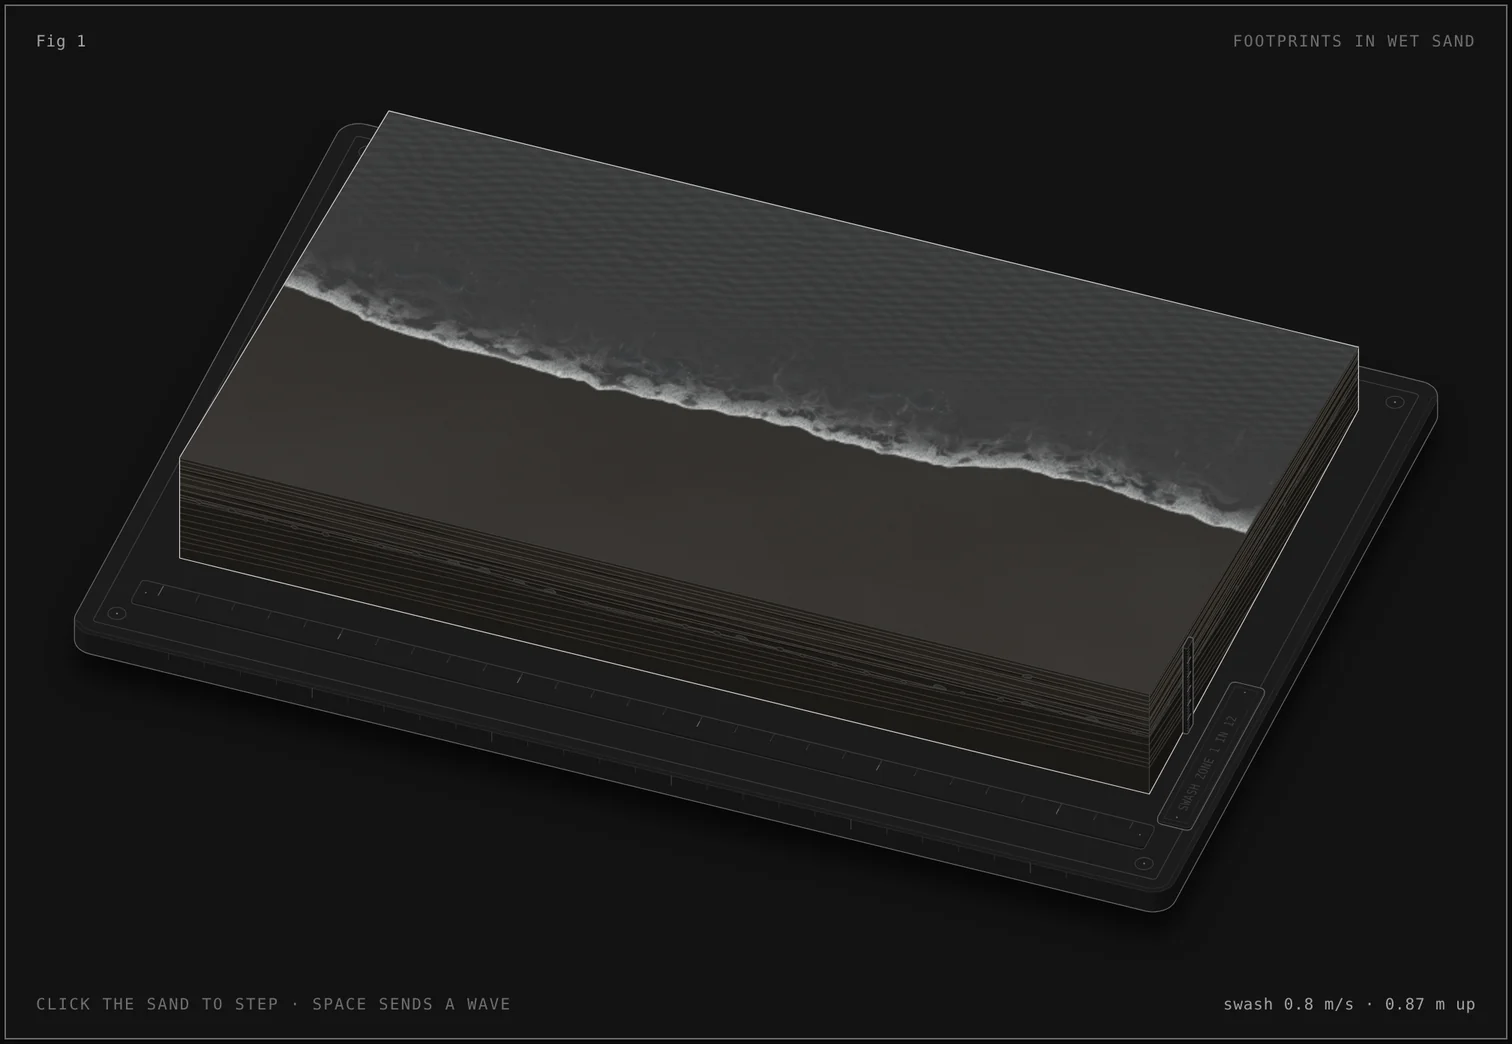
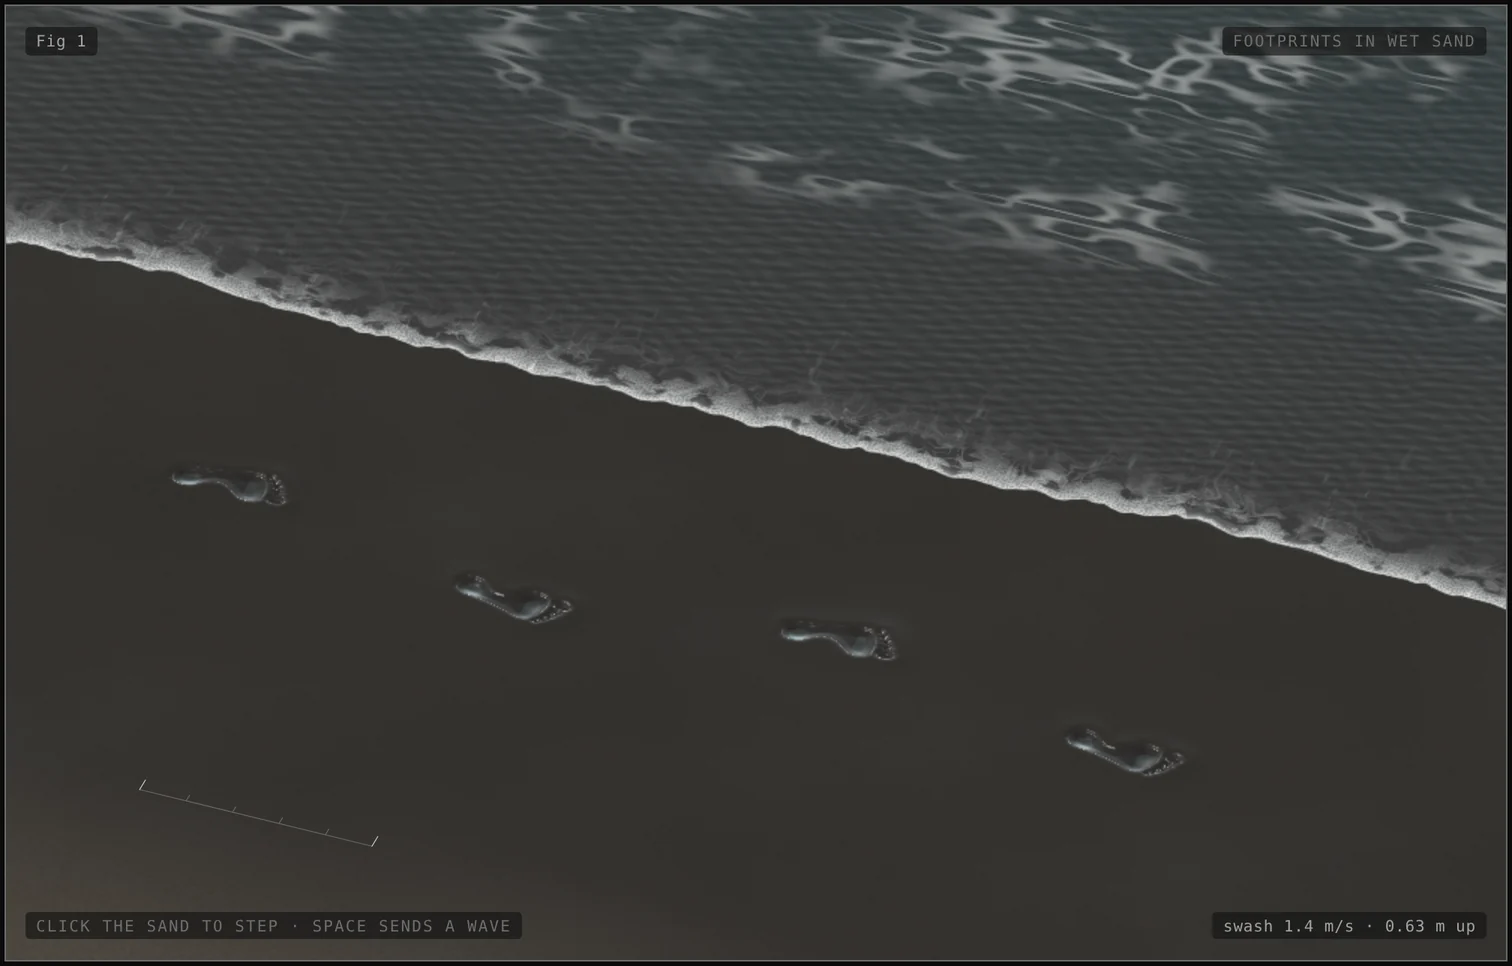
Footprints: bore accelerates into the swash; new stills and loop
The bore now speeds up smoothly into the swash instead of jumping at
the collapse, and the sheet's ripples and depth fade in over its first
moments. README stills and the loop are re-shot for the open beach.

Claude-Session: https://claude.ai/code/session_0171zceWWsnxJddpDdoDrt4v

diff --git a/footprints-in-wet-sand/footprints-in-wet-sand-light.html b/footprints-in-wet-sand/footprints-in-wet-sand-light.html
@@ -1199,6 +1199,8 @@ function frontAt(wave, x, s) {
 }
 
 const speedAt = (wave, x, s) => launchAt(wave, x) - DOWNHILL * s;
+const boreAt = (wave, x, s) => launchAt(wave, x) * (s + (0.5 * (1 - SWASH.boreSpeed) * s * s) / SWASH.bore);
+const boreSpeedAt = (wave, x, s) => launchAt(wave, x) * (1 + ((1 - SWASH.boreSpeed) * s) / SWASH.bore);
 const topOf = (wave, x) => SWASH.from + launchAt(wave, x) ** 2 / (2 * DOWNHILL);
 const turnOf = (wave, x) => launchAt(wave, x) / DOWNHILL;
 
@@ -1331,7 +1333,7 @@ vec2 localOf(vec2 p,vec4 P){vec2 d=p-P.xy;float c=cos(P.z);float s=sin(P.z);retu
 
 float lobe(float x,float seed){return .5*sin(x/37.+seed*6.1)+.3*sin(x/19.+seed*13.7)+.2*sin(x/11.5+seed*29.3);}
 float launch(vec4 w,float x){return w.y*(1.+LOBE*lobe(x,w.z));}
-float frontOf(vec4 w,float x){float s=w.x;if(w.w<.5||s<-BORE)return -1e4;if(s<=0.)return FROM+BORE_U*launch(w,x)*s;return FROM+launch(w,x)*s-.5*DOWN*s*s;}
+float frontOf(vec4 w,float x){float s=w.x;if(w.w<.5||s<-BORE)return -1e4;if(s<=0.){float u=launch(w,x);return FROM+u*s+.5*(1.-BORE_U)*u/BORE*s*s;}return FROM+launch(w,x)*s-.5*DOWN*s*s;}
 float topOf(vec4 w,float x){float u=launch(w,x);return FROM+u*u/(2.*DOWN);}
 float turnOf(vec4 w,float x){return launch(w,x)/DOWN;}
 vec2 timesOf(vec4 w,float x,float y){float u=launch(w,x);float disc=u*u-2.*DOWN*(y-FROM);if(disc<=0.)return vec2(1e4,-1e4);float r=sqrt(disc);return vec2(u-r,u+r)/DOWN;}
@@ -1655,12 +1657,12 @@ void main(){
   foam=max(foam,seaCov*(1.-wcover)*exp(-max(shore-p.y,0.)/1.3)*(.3+.7*smoothstep(.4,.85,noise2(vec2(p.x/1.3,(shore-p.y)/.8+uClock*.5))))*.4);
   if(water>.001){
     float speed=max(launch(uWave,p.x)-DOWN*sWave,0.);
-    float hw=sWave>0.?pow(max(dist,0.),2.)/(9.*GRAV*sWave*sWave):0.;
+    float hw=sWave>0.?pow(max(dist,0.),2.)/(9.*GRAV*sWave*sWave)*smoothstep(0.,.35,sWave):0.;
     float deep=max(-hs,0.);
     float turb=1.-exp(-(hw+seaD+deep*.5+.02)/.5);
     vec2 seed=vec2(uWave.z*17.,uWave.z*5.);
     vec2 g=vec2(0.);
-    float ripple=up*smoothstep(0.,10.,dist)*mix(.5,1.,smoothstep(10.,120.,speed))*smoothstep(.02,.25,hw);
+    float ripple=up*smoothstep(0.,10.,dist)*mix(.5,1.,smoothstep(10.,120.,speed))*smoothstep(.02,.25,hw)*smoothstep(0.,.5,sWave);
     vec2 r1=vec2(.34,.94);vec2 r2=vec2(-.5,.87);vec2 r3=vec2(.12,.99);
     float w1=6.2832*fbm2(p.xy/14.+seed);
     float w2=6.2832*noise2(p.xy/8.3+seed.yx+5.);
@@ -1850,7 +1852,7 @@ function phaseOf() {
     const front = frontAt(w, mid, s);
     const turn = turnOf(w, mid);
     const alive = state.prints.filter((print) => erosionAt(print) < 0.97).length;
-    if (s <= 0) return { word: "wave coming", text: `bore ${metres(-SWASH.boreSpeed * launchAt(w, mid) * s)} m out · ${((SWASH.boreSpeed * launchAt(w, mid)) / 100).toFixed(1)} m/s` };
+    if (s <= 0) return { word: "wave coming", text: `bore ${metres(-boreAt(w, mid, s))} m out · ${(boreSpeedAt(w, mid, s) / 100).toFixed(1)} m/s` };
     if (Math.abs(s - turn) < 0.3) return { word: "run-up", text: `run-up ${metres(topOf(w, mid) - SWASH.from)} m · ${turn.toFixed(1)} s` };
     if (s < turn) return { word: "swash", text: `swash ${(speedAt(w, mid, s) / 100).toFixed(1)} m/s · ${metres(front - SWASH.from)} m up` };
     if (front > SWASH.from) return { word: "backwash", text: `backwash ${(-speedAt(w, mid, s) / 100).toFixed(1)} m/s · ${alive ? `${alive} ${alive === 1 ? "print" : "prints"} left` : "prints gone"}` };

diff --git a/footprints-in-wet-sand/footprints-in-wet-sand.html b/footprints-in-wet-sand/footprints-in-wet-sand.html
@@ -1199,6 +1199,8 @@ function frontAt(wave, x, s) {
 }
 
 const speedAt = (wave, x, s) => launchAt(wave, x) - DOWNHILL * s;
+const boreAt = (wave, x, s) => launchAt(wave, x) * (s + (0.5 * (1 - SWASH.boreSpeed) * s * s) / SWASH.bore);
+const boreSpeedAt = (wave, x, s) => launchAt(wave, x) * (1 + ((1 - SWASH.boreSpeed) * s) / SWASH.bore);
 const topOf = (wave, x) => SWASH.from + launchAt(wave, x) ** 2 / (2 * DOWNHILL);
 const turnOf = (wave, x) => launchAt(wave, x) / DOWNHILL;
 
@@ -1331,7 +1333,7 @@ vec2 localOf(vec2 p,vec4 P){vec2 d=p-P.xy;float c=cos(P.z);float s=sin(P.z);retu
 
 float lobe(float x,float seed){return .5*sin(x/37.+seed*6.1)+.3*sin(x/19.+seed*13.7)+.2*sin(x/11.5+seed*29.3);}
 float launch(vec4 w,float x){return w.y*(1.+LOBE*lobe(x,w.z));}
-float frontOf(vec4 w,float x){float s=w.x;if(w.w<.5||s<-BORE)return -1e4;if(s<=0.)return FROM+BORE_U*launch(w,x)*s;return FROM+launch(w,x)*s-.5*DOWN*s*s;}
+float frontOf(vec4 w,float x){float s=w.x;if(w.w<.5||s<-BORE)return -1e4;if(s<=0.){float u=launch(w,x);return FROM+u*s+.5*(1.-BORE_U)*u/BORE*s*s;}return FROM+launch(w,x)*s-.5*DOWN*s*s;}
 float topOf(vec4 w,float x){float u=launch(w,x);return FROM+u*u/(2.*DOWN);}
 float turnOf(vec4 w,float x){return launch(w,x)/DOWN;}
 vec2 timesOf(vec4 w,float x,float y){float u=launch(w,x);float disc=u*u-2.*DOWN*(y-FROM);if(disc<=0.)return vec2(1e4,-1e4);float r=sqrt(disc);return vec2(u-r,u+r)/DOWN;}
@@ -1655,12 +1657,12 @@ void main(){
   foam=max(foam,seaCov*(1.-wcover)*exp(-max(shore-p.y,0.)/1.3)*(.3+.7*smoothstep(.4,.85,noise2(vec2(p.x/1.3,(shore-p.y)/.8+uClock*.5))))*.4);
   if(water>.001){
     float speed=max(launch(uWave,p.x)-DOWN*sWave,0.);
-    float hw=sWave>0.?pow(max(dist,0.),2.)/(9.*GRAV*sWave*sWave):0.;
+    float hw=sWave>0.?pow(max(dist,0.),2.)/(9.*GRAV*sWave*sWave)*smoothstep(0.,.35,sWave):0.;
     float deep=max(-hs,0.);
     float turb=1.-exp(-(hw+seaD+deep*.5+.02)/.5);
     vec2 seed=vec2(uWave.z*17.,uWave.z*5.);
     vec2 g=vec2(0.);
-    float ripple=up*smoothstep(0.,10.,dist)*mix(.5,1.,smoothstep(10.,120.,speed))*smoothstep(.02,.25,hw);
+    float ripple=up*smoothstep(0.,10.,dist)*mix(.5,1.,smoothstep(10.,120.,speed))*smoothstep(.02,.25,hw)*smoothstep(0.,.5,sWave);
     vec2 r1=vec2(.34,.94);vec2 r2=vec2(-.5,.87);vec2 r3=vec2(.12,.99);
     float w1=6.2832*fbm2(p.xy/14.+seed);
     float w2=6.2832*noise2(p.xy/8.3+seed.yx+5.);
@@ -1850,7 +1852,7 @@ function phaseOf() {
     const front = frontAt(w, mid, s);
     const turn = turnOf(w, mid);
     const alive = state.prints.filter((print) => erosionAt(print) < 0.97).length;
-    if (s <= 0) return { word: "wave coming", text: `bore ${metres(-SWASH.boreSpeed * launchAt(w, mid) * s)} m out · ${((SWASH.boreSpeed * launchAt(w, mid)) / 100).toFixed(1)} m/s` };
+    if (s <= 0) return { word: "wave coming", text: `bore ${metres(-boreAt(w, mid, s))} m out · ${(boreSpeedAt(w, mid, s) / 100).toFixed(1)} m/s` };
     if (Math.abs(s - turn) < 0.3) return { word: "run-up", text: `run-up ${metres(topOf(w, mid) - SWASH.from)} m · ${turn.toFixed(1)} s` };
     if (s < turn) return { word: "swash", text: `swash ${(speedAt(w, mid, s) / 100).toFixed(1)} m/s · ${metres(front - SWASH.from)} m up` };
     if (front > SWASH.from) return { word: "backwash", text: `backwash ${(-speedAt(w, mid, s) / 100).toFixed(1)} m/s · ${alive ? `${alive} ${alive === 1 ? "print" : "prints"} left` : "prints gone"}` };

diff --git a/footprints-in-wet-sand/live.js b/footprints-in-wet-sand/live.js
@@ -59,7 +59,7 @@ vec2 localOf(vec2 p,vec4 P){vec2 d=p-P.xy;float c=cos(P.z);float s=sin(P.z);retu
 
 float lobe(float x,float seed){return .5*sin(x/37.+seed*6.1)+.3*sin(x/19.+seed*13.7)+.2*sin(x/11.5+seed*29.3);}
 float launch(vec4 w,float x){return w.y*(1.+LOBE*lobe(x,w.z));}
-float frontOf(vec4 w,float x){float s=w.x;if(w.w<.5||s<-BORE)return -1e4;if(s<=0.)return FROM+BORE_U*launch(w,x)*s;return FROM+launch(w,x)*s-.5*DOWN*s*s;}
+float frontOf(vec4 w,float x){float s=w.x;if(w.w<.5||s<-BORE)return -1e4;if(s<=0.){float u=launch(w,x);return FROM+u*s+.5*(1.-BORE_U)*u/BORE*s*s;}return FROM+launch(w,x)*s-.5*DOWN*s*s;}
 float topOf(vec4 w,float x){float u=launch(w,x);return FROM+u*u/(2.*DOWN);}
 float turnOf(vec4 w,float x){return launch(w,x)/DOWN;}
 vec2 timesOf(vec4 w,float x,float y){float u=launch(w,x);float disc=u*u-2.*DOWN*(y-FROM);if(disc<=0.)return vec2(1e4,-1e4);float r=sqrt(disc);return vec2(u-r,u+r)/DOWN;}
@@ -383,12 +383,12 @@ void main(){
   foam=max(foam,seaCov*(1.-wcover)*exp(-max(shore-p.y,0.)/1.3)*(.3+.7*smoothstep(.4,.85,noise2(vec2(p.x/1.3,(shore-p.y)/.8+uClock*.5))))*.4);
   if(water>.001){
     float speed=max(launch(uWave,p.x)-DOWN*sWave,0.);
-    float hw=sWave>0.?pow(max(dist,0.),2.)/(9.*GRAV*sWave*sWave):0.;
+    float hw=sWave>0.?pow(max(dist,0.),2.)/(9.*GRAV*sWave*sWave)*smoothstep(0.,.35,sWave):0.;
     float deep=max(-hs,0.);
     float turb=1.-exp(-(hw+seaD+deep*.5+.02)/.5);
     vec2 seed=vec2(uWave.z*17.,uWave.z*5.);
     vec2 g=vec2(0.);
-    float ripple=up*smoothstep(0.,10.,dist)*mix(.5,1.,smoothstep(10.,120.,speed))*smoothstep(.02,.25,hw);
+    float ripple=up*smoothstep(0.,10.,dist)*mix(.5,1.,smoothstep(10.,120.,speed))*smoothstep(.02,.25,hw)*smoothstep(0.,.5,sWave);
     vec2 r1=vec2(.34,.94);vec2 r2=vec2(-.5,.87);vec2 r3=vec2(.12,.99);
     float w1=6.2832*fbm2(p.xy/14.+seed);
     float w2=6.2832*noise2(p.xy/8.3+seed.yx+5.);
@@ -578,7 +578,7 @@ function phaseOf() {
     const front = frontAt(w, mid, s);
     const turn = turnOf(w, mid);
     const alive = state.prints.filter((print) => erosionAt(print) < 0.97).length;
-    if (s <= 0) return { word: "wave coming", text: `bore ${metres(-SWASH.boreSpeed * launchAt(w, mid) * s)} m out · ${((SWASH.boreSpeed * launchAt(w, mid)) / 100).toFixed(1)} m/s` };
+    if (s <= 0) return { word: "wave coming", text: `bore ${metres(-boreAt(w, mid, s))} m out · ${(boreSpeedAt(w, mid, s) / 100).toFixed(1)} m/s` };
     if (Math.abs(s - turn) < 0.3) return { word: "run-up", text: `run-up ${metres(topOf(w, mid) - SWASH.from)} m · ${turn.toFixed(1)} s` };
     if (s < turn) return { word: "swash", text: `swash ${(speedAt(w, mid, s) / 100).toFixed(1)} m/s · ${metres(front - SWASH.from)} m up` };
     if (front > SWASH.from) return { word: "backwash", text: `backwash ${(-speedAt(w, mid, s) / 100).toFixed(1)} m/s · ${alive ? `${alive} ${alive === 1 ? "print" : "prints"} left` : "prints gone"}` };

diff --git a/footprints-in-wet-sand/README.md b/footprints-in-wet-sand/README.md
@@ -2,7 +2,7 @@
 
 An interactive isometric figure, built with the [Anatomy](https://github.com/wheresryan22/anatomy) skill. It looks down on an open beach that rises 1 in 12 and fills the frame: the sea at the back, a strip of smooth, dark, wet sand where the swash runs, and drier sand toward you.
 
-<p align="center"><img src="shots/loop-dark.webp" width="640" alt="The 14.5-second loop in the dark theme: four footprints press into the dark wet sand of an open beach; a bore runs in from the sea, its thin swash slides up with a foam edge, covers and smooths the prints, and drains back, leaving the sand glossy and smooth."></p>
+<p align="center"><img src="shots/loop-dark.webp" width="600" alt="The 14.5-second loop in the dark theme: four footprints press into the dark wet sand of an open beach; a bore runs in from the sea, its thin swash slides up with a foam edge, covers and smooths the prints, and drains back, leaving the sand glossy and smooth."></p>
 
 | | Light | Dark |
 |---|---|---|
